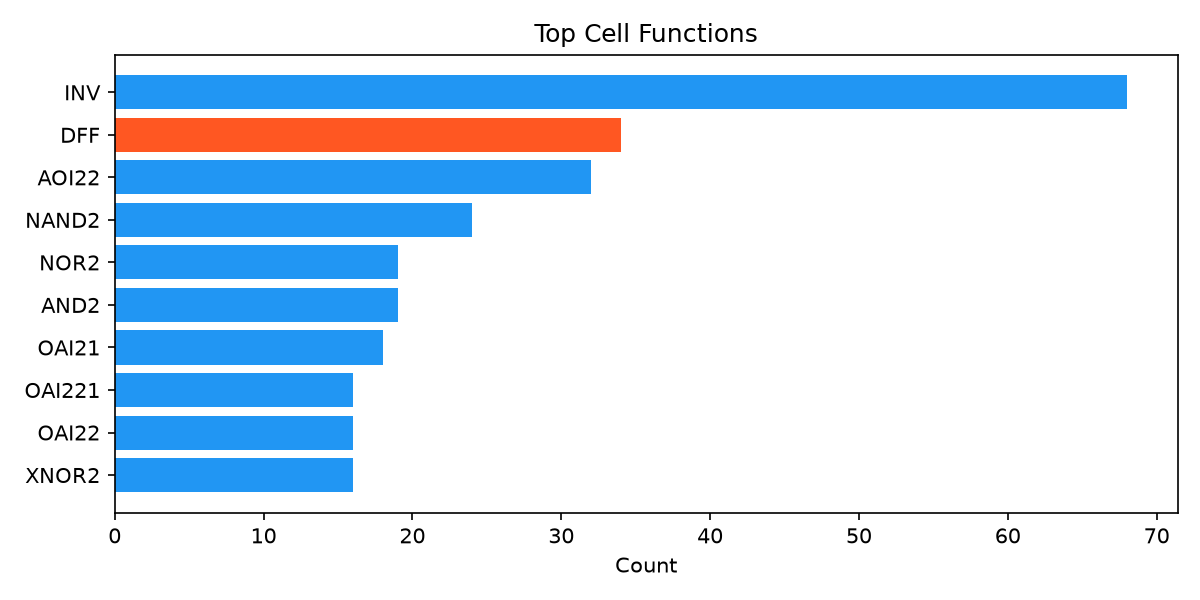
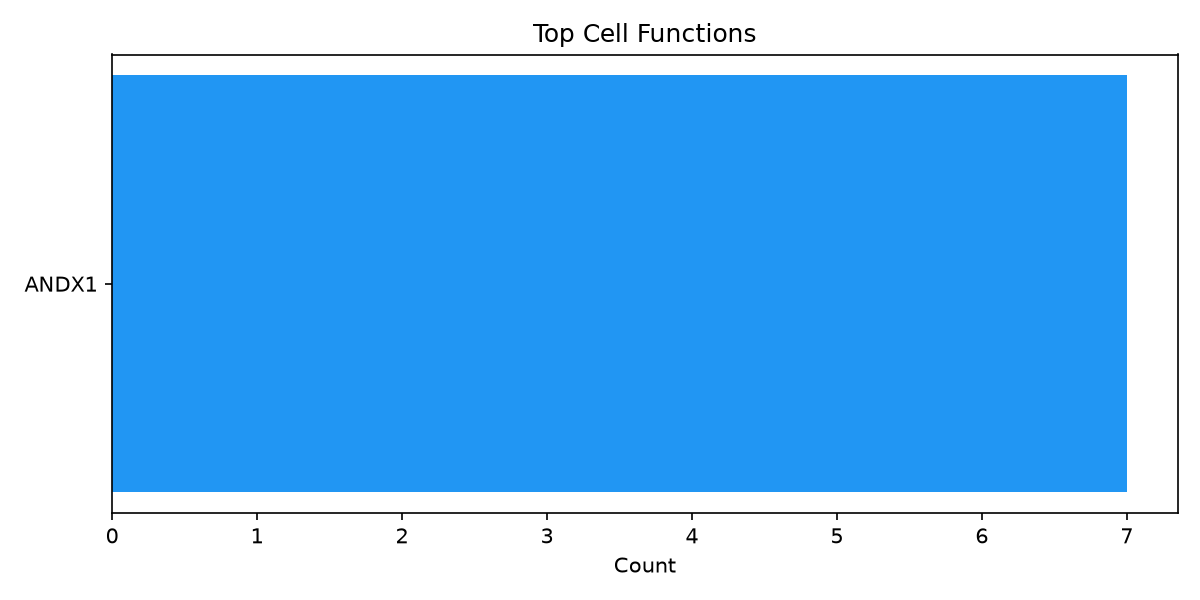
add hierarchical netlist test report

diff --git a/results/gcd/hier_test_report.md b/results/gcd/hier_test_report.md
@@ -1,0 +1,49 @@
+# 层级网表分析
+
+`tests/st/db_tclio/base/basic_tcl/test.v` — Dizo 自带层级测试用例。
+
+## 模块结构
+
+```
+top (3 ports, 9 nets)
+├── u1 (ANDX1)
+├── u2 (ANDX1)
+├── hinst_sub → sub (4 ports, 7 nets)
+│   ├── u1 (ANDX1)
+│   ├── u2 (ANDX1)
+│   └── hinst_sub2 → sub2 (2 ports, 5 nets)
+│       ├── u1 (ANDX1)
+│       └── hinst_sub3 → sub3 (2 ports, 3 nets)
+│           └── u (ANDX1)
+└── top_sub4 → sub4 (2 ports, 3 nets)
+    └── u (ANDX1)
+```
+
+| Module | Leaf | Hier | Ports | Nets |
+|--------|------|------|-------|------|
+| top | 2 | 2 | 3 | 9 |
+| sub | 2 | 1 | 4 | 7 |
+| sub2 | 1 | 1 | 2 | 5 |
+| sub3 | 1 | 0 | 2 | 3 |
+| sub4 | 1 | 0 | 2 | 3 |
+| **Total** | **7** | — | — | — |
+
+## 基础统计
+
+| 指标 | 数值 |
+|------|------|
+| 叶节点 Instance | 7 (全 ANDX1) |
+| 模块数 | 5 |
+| 最大深度 | 4 (top→sub→sub2→sub3) |
+
+![单元分布](cells.png)  ![功能分类](cell_functions.png)
+
+## 连接度
+
+Degree 均值 2.1，Fanout 均值 0.8。因为层级网表含多端口模块，内部连接被封装在各模块内，导致顶层的连接度偏低。Rent 因样本太小无法拟合。
+
+![连接度](connectivity.png)
+
+## 验证结论
+
+层级遍历修复生效：修复前读到 4 个实例（仅顶层），修复后读到 7 个叶子实例（遍历全部 5 个模块）。`is_hier()` 正确过滤了层级块。
